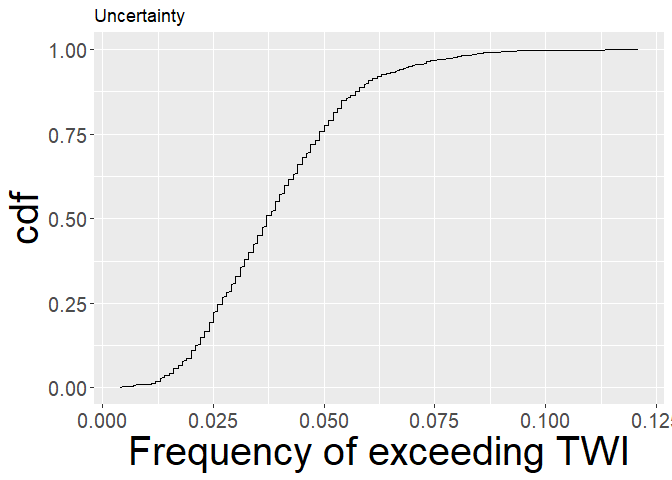
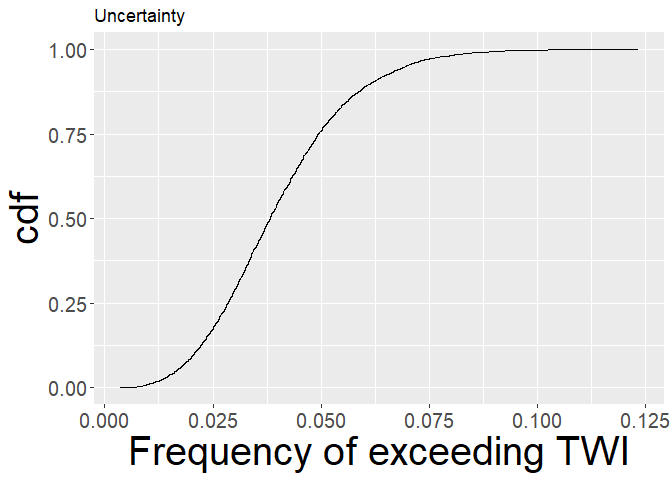
updated

diff --git a/README.md b/README.md
@@ -17,7 +17,9 @@ You can install the development version of `ppvsbp` from
 [github](https://github.com/Iraices/PrecisePvsBoundedP) with:
 
 ``` r
-# remotes::install_github('Iraices/PrecisePvsBoundedP')
+remotes::install_github('Iraices/PrecisePvsBoundedP')
+#> Skipping install of 'ppvsbp' from a github remote, the SHA1 (fb440438) has not changed since last install.
+#>   Use `force = TRUE` to force installation
 ```
 
 ## Example
@@ -31,7 +33,7 @@ for all chidren
 ``` r
 library(ppvsbp)
 ## basic example code
-TWI_pp <- unc_analysis_assessment(niter_ale = 1000, niter_epi = 1000, threshold = 1,
+TWI_pp <- unc_analysis_assessment(niter_ale = 5000, niter_epi = 5000, threshold = 1,
                                   percentile_ale = NULL,
                                   suff_stat_concentration = data_assessment$log_concentration_ss_data,
                                   suff_stat_consumption = data_assessment$log_consumption_ss_data,
@@ -47,13 +49,13 @@ TWI_pp <- unc_analysis_assessment(niter_ale = 1000, niter_epi = 1000, threshold 
 str(TWI_pp)
 #> List of 6
 #>  $ prob_consumption_event  :List of 7
-#>   ..$ : num 0.135
-#>   ..$ : num 0.641
-#>   ..$ : num 0.249
-#>   ..$ : num 0.126
-#>   ..$ : num 0.271
-#>   ..$ : num 0.502
-#>   ..$ : num 0.303
+#>   ..$ : num 0.127
+#>   ..$ : num 0.639
+#>   ..$ : num 0.222
+#>   ..$ : num 0.121
+#>   ..$ : num 0.27
+#>   ..$ : num 0.468
+#>   ..$ : num 0.326
 #>  $ parameters_concentration:List of 7
 #>   ..$ :List of 2
 #>   .. ..$ prior    :List of 4
@@ -210,20 +212,20 @@ str(TWI_pp)
 #>   .. .. ..$ v    : num 226
 #>   .. .. ..$ alpha: num 112
 #>   .. .. ..$ beta : num 184
-#>  $ prob_exceed             : num [1:1000] 0.042 0.035 0.091 0.034 0.024 0.029 0.026 0.02 0.026 0.033 ...
-#>  $ expected_prob_exceed    : num 0.0392
-#>  $ hdi_prob_exceed         : Named num [1:2] 0.012 0.073
+#>  $ prob_exceed             : num [1:5000] 0.043 0.0402 0.052 0.0414 0.0422 0.0318 0.0512 0.047 0.0524 0.0506 ...
+#>  $ expected_prob_exceed    : num 0.04
+#>  $ hdi_prob_exceed         : Named num [1:2] 0.0094 0.0706
 #>   ..- attr(*, "names")= chr [1:2] "lower" "upper"
 #>   ..- attr(*, "credMass")= num 0.95
 
 ## Expected probability of exceeding the safety threshold
 TWI_pp$expected_prob_exceed
-#> [1] 0.039249
+#> [1] 0.03999584
 
 ## Highest posterior density interval of the probability of exceeding the safety threshold
 TWI_pp$hdi_prob_exceed
-#> lower upper 
-#> 0.012 0.073 
+#>  lower  upper 
+#> 0.0094 0.0706 
 #> attr(,"credMass")
 #> [1] 0.95
 ```
@@ -233,7 +235,7 @@ threshold for a high consumer child. Note, the argument `percentile_ale`
 has changed `percentile_ale = 95`.
 
 ``` r
-  TWI_pp_high_consumer <- unc_analysis_assessment(niter_ale = 1000, niter_epi = 1000, threshold = 1,
+  TWI_pp_high_consumer <- unc_analysis_assessment(niter_ale = 5000, niter_epi = 5000, threshold = 1,
                                    percentile_ale = 95,
                                    suff_stat_concentration = data_assessment$log_concentration_ss_data,
                                    suff_stat_consumption = data_assessment$log_consumption_ss_data,
@@ -250,13 +252,13 @@ has changed `percentile_ale = 95`.
 str(TWI_pp_high_consumer)
 #> List of 6
 #>  $ prob_consumption_event  :List of 7
-#>   ..$ : num 0.176
-#>   ..$ : num 0.683
-#>   ..$ : num 0.249
-#>   ..$ : num 0.117
-#>   ..$ : num 0.281
-#>   ..$ : num 0.466
-#>   ..$ : num 0.325
+#>   ..$ : num 0.144
+#>   ..$ : num 0.646
+#>   ..$ : num 0.216
+#>   ..$ : num 0.125
+#>   ..$ : num 0.255
+#>   ..$ : num 0.468
+#>   ..$ : num 0.289
 #>  $ parameters_concentration:List of 7
 #>   ..$ :List of 2
 #>   .. ..$ prior    :List of 4
@@ -413,20 +415,20 @@ str(TWI_pp_high_consumer)
 #>   .. .. ..$ v    : num 226
 #>   .. .. ..$ alpha: num 112
 #>   .. .. ..$ beta : num 184
-#>  $ prob_exceed             : num [1:1000] 0.614 0.528 0.479 0.896 0.511 0.62 0.494 0.414 0.586 0.165 ...
-#>  $ expected_prob_exceed    : num 0.574
-#>  $ hdi_prob_exceed         : Named num [1:2] 0.242 0.912
+#>  $ prob_exceed             : num [1:5000] 0.582 0.627 0.702 0.528 0.569 ...
+#>  $ expected_prob_exceed    : num 0.577
+#>  $ hdi_prob_exceed         : Named num [1:2] 0.208 0.881
 #>   ..- attr(*, "names")= chr [1:2] "lower" "upper"
 #>   ..- attr(*, "credMass")= num 0.95
 
 ## Expected probability of exceeding the safety threshold
 TWI_pp_high_consumer$expected_prob_exceed
-#> [1] 0.573948
+#> [1] 0.5771934
 
 ## Highest posterior density interval of the probability of exceeding the safety threshold
 TWI_pp_high_consumer$hdi_prob_exceed
-#> lower upper 
-#> 0.242 0.912 
+#>  lower  upper 
+#> 0.2080 0.8814 
 #> attr(,"credMass")
 #> [1] 0.95
 ```
@@ -468,7 +470,7 @@ First, let us consider all children
   lower_bound_prob <- bound_prob_exceed_bp(obj_func_bp = obj_func_bp, maximize = FALSE, 
                                             lower_parameters  = c(1, -5, -20), 
                                             upper_parameters  = c(6, 1, -10),
-                                            niter_ale = 1000, niter_epi = 1000, threshold = 1, percentile_ale = NULL,
+                                            niter_ale = 2000, niter_epi = 2000, threshold = 1, percentile_ale = NULL,
                                             suff_stat_concentration = data_assessment$log_concentration_ss_data,
                                             suff_stat_consumption = data_assessment$log_consumption_ss_data,
                                             consumption_change_vals_EKE = c(-15, 7.5), 
@@ -488,7 +490,7 @@ First, let us consider all children
   upper_bound_prob <- bound_prob_exceed_bp(obj_func_bp = obj_func_bp, maximize = TRUE, 
                                            lower_parameters  = c(1, -5, -20), 
                                            upper_parameters  = c(6, 1, -10),
-                                           niter_ale = 1000, niter_epi = 1000, threshold = 1, 
+                                           niter_ale = 2000, niter_epi = 2000, threshold = 1, 
                                            percentile_ale = NULL,
                                            suff_stat_concentration = data_assessment$log_concentration_ss_data,
                                            suff_stat_consumption = data_assessment$log_consumption_ss_data,
@@ -512,7 +514,7 @@ Now, let us consider a high consumer child
   lower_bound_high_consumer <- bound_prob_exceed_bp(obj_func_bp = obj_func_bp, maximize = FALSE, 
                                                    lower_parameters  = c(1, -5, -20), 
                                                    upper_parameters  = c(6, 1, -10),
-                                                   niter_ale = 1000, niter_epi = 1000, threshold = 1, 
+                                                   niter_ale = 2000, niter_epi = 2000, threshold = 1, 
                                                    percentile_ale = 95,
                                                    suff_stat_concentration = data_assessment$log_concentration_ss_data,
                                                    suff_stat_consumption = data_assessment$log_consumption_ss_data,
@@ -534,7 +536,7 @@ Now, let us consider a high consumer child
   upper_bound_high_consumer <- bound_prob_exceed_bp(obj_func_bp = obj_func_bp, maximize = TRUE, 
                                                     lower_parameters  = c(1, -5, -20), 
                                                     upper_parameters  = c(6, 1, -10),
-                                                    niter_ale = 1000, niter_epi = 1000, threshold = 1, 
+                                                    niter_ale = 2000, niter_epi = 2000, threshold = 1, 
                                                     percentile_ale = 95,
                                                     suff_stat_concentration = data_assessment$log_concentration_ss_data,
                                                     suff_stat_consumption = data_assessment$log_consumption_ss_data,
